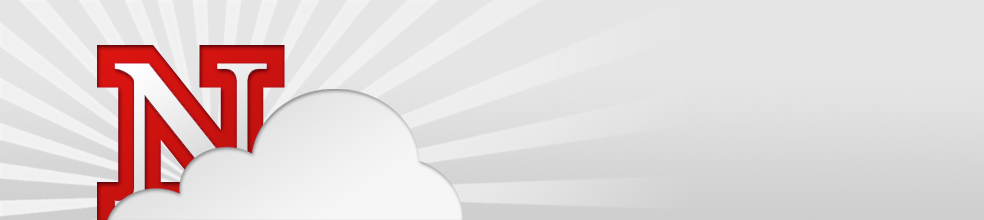
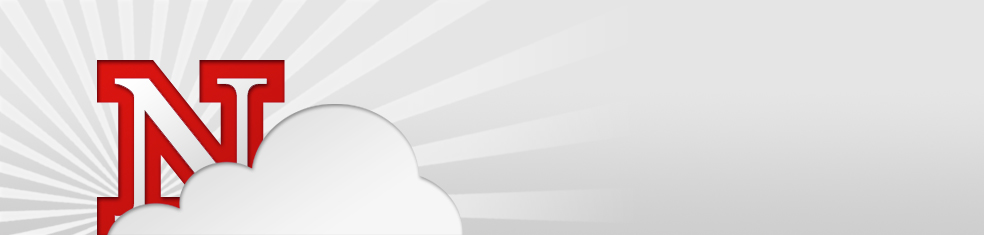
Extended height on box header

Changed region(s): [[0.0, 0.1909, 0.4268, 1.0], [0.4268, 0.7364, 0.4573, 0.8182]]

diff --git a/sharedcode/twitter.css b/sharedcode/twitter.css
@@ -48,7 +48,7 @@ a.moreButton:hover {
 	background-repeat:no-repeat;
 	border-top:2px solid #C2C2C2;
 	border-bottom:2px solid #9E0202;
-	height:220px;
+	height:235px;
 	margin-bottom:60px;
 	margin-top:30px;
 	width:984px;
@@ -59,12 +59,14 @@ a.moreButton:hover {
 	float:right;
 	font-size:1.2em;
 	line-height:28px;
+	margin-top:12px;
 	padding-right:25px;
 	text-align:right;
 	width:485px;	
 }
 
-#maincontent .boxheader .blurb h3 {
+#maincontent
+.boxheader .blurb h3 {
 	float:right;
 	font-family: Helvetica,Arial,sans-serif;
 	font-size: 2em;
@@ -106,7 +108,8 @@ a.moreButton:hover {
 	font-weight:bold;
 }
 
-#maincontent .top_link {
+#maincontent
+.top_link {
 	bottom:26px;
 	float:right;
 	font-weight:bold;
@@ -119,16 +122,19 @@ a.moreButton:hover {
 	text-decoration:none;
 }
 
-#maincontent .top_link a span:hover {
+#maincontent
+.top_link a span:hover {
 	text-decoration:underline;
 }
 
-#maincontent .tweet .origination a {
+#maincontent
+.tweet .origination a {
 	color:#8c8c8c;
 	text-decoration:underline;
 }
 
-#maincontent .tweet .origination a:hover {
+#maincontent
+.tweet .origination a:hover {
 	text-decoration:none;
 }
 
@@ -144,7 +150,8 @@ a.moreButton:hover {
 	font-size:18px;
 }
 
-#maincontent .tweetBox .wdn_tabs_content {
+#maincontent
+.tweetBox .wdn_tabs_content {
 	margin-top:57px;
 }
 
@@ -354,7 +361,7 @@ a.moreButton:hover {
 	background-repeat:repeat-x;
 	border:1px solid #B70302;
 	bottom:2px;
-	height:38px;
+	height:40px;
 	left:660px;
 	padding:7px 5px;
 	position:relative;
@@ -374,6 +381,18 @@ a.moreButton:hover {
 	-khtml-box-shadow: 0px 5px 5px -5px #AAA;
 	-moz-box-shadow: 0px 5px 5px -5px #AAA;
 	-webkit-box-shadow: 0px 5px 5px -5px #AAA;
+}
+
+#maincontent
+.logo_bg h3 {
+	color:#fff;
+	float:left;
+	font-size:2.2em;
+	font-weight:bold;
+	
+	/* HTML5 */
+	text-shadow: 0px 1px 0px #9E0202;
+	filter: dropshadow(color=#9E0202, offx=0, offy=1);
 }
 
 .twitter_logo {
